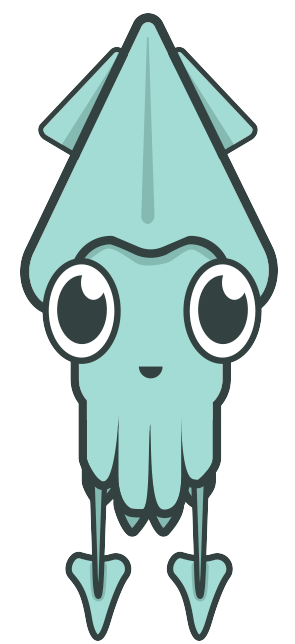
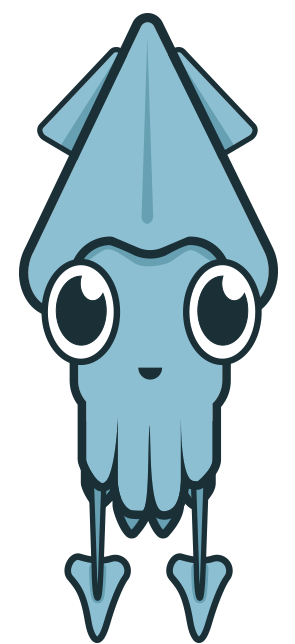
Redesigned home page and removed extra javascript

diff --git a/app/assets/stylesheets/application.scss b/app/assets/stylesheets/application.scss
@@ -1,36 +1,70 @@
 @import 'normalize';
 @import 'bootstrap';
 
+$dark-blue: #123035;
+$medium-blue: #55a1b1;
+$light-blue: #7fc0d1;
+
 /* ====================== Default Styles ===================== */
 
+body {
+	color: $dark-blue;
+}
+
 h1 {
-	font-family: 'Bree Serif', serif;
-	font-size: 3em;
-	color: #66ada3;
+	font-family: 'Serenity', serif;
+	font-size: 3.5em;
+	font-weight: 700;
+	color: $medium-blue;
 	margin-top: 100px;
+	text-transform: uppercase;
 }
 
 .blog-contact-content h1 {
-	font-family: 'Bree Serif', serif;
-	font-size: 3em;
-	color: #66ada3;
 	margin-top: 30px;
 }
 
+.blog-entries-content h1 {
+	margin-top: 50px;
+}
+
 h2 {
-	font-family: 'Raleway', sans-serif;
-	font-size: 2em;
+	font-family: 'Serenity', sans-serif;
+	color: $dark-blue;
+	text-align: center;
+	font-size: 3.5em;
+	font-weight: 600;
+	line-height: 1.2em;
+	margin-top: 0;
+}
+
+h3 {
+	font-family: 'Serenity', sans-serif;
+	font-size: 2.5em;
 	font-weight: 300;
-	line-height: 1.4em;
-	margin-top: 20px;
+	line-height: 1.2em;
+	margin: 25px 0;
+}
+
+h5 {
+	font-family: 'Serenity', sans-serif;
+	font-size: 18px;
+	font-weight: 300;
+	color: $dark-blue;
+	padding: 10% 25px;
+	text-align: center;
+	text-transform: uppercase;
 }
 
 p {
-font-family: 'Raleway', sans-serif;
-	font-size: 1.4em;
+	font-family: 'Serenity', sans-serif;
+	font-size: 1.7em;
 	font-weight: 200;
+}
+
+.blog-home-content p {
 	line-height: 1.4em;
-	margin-top: 20px;
+	padding-right: 200px;
 }
 
 .hide {
@@ -54,17 +88,17 @@ font-family: 'Raleway', sans-serif;
 }
 
 .navbar-default .navbar-nav  li  a {
-	color: #253331;
+	color: $dark-blue;
 }
 
 .navbar-default .navbar-nav  li  a:hover {
-	color: #66ada3;
+	color: $light-blue;
 }
 
 .navbar-default .navbar-nav > .active > a,
 .navbar-default .navbar-nav > .active > a:focus,
 .navbar-default .navbar-nav > .active > a:hover {
-	color: #66ada3;
+	color: $light-blue;
 	background-color: transparent;
 }
 
@@ -72,8 +106,8 @@ font-family: 'Raleway', sans-serif;
 	max-width: 1200px;
 	margin-left: auto;
 	margin-right: auto;
-	font-family: 'Bree Serif', serif;
-	font-size: 1.2em;
+	font-family: 'Serenity', serif;
+	font-size: 1.3em;
 }
 
 #blog-main-nav-wrapper .navbar {
@@ -93,10 +127,11 @@ font-family: 'Raleway', sans-serif;
 
 /* ====================== Body Styles ===================== */
 
-#blog-main-content-bg {
+.blog-main-content-bg {
 	width: 100%;
 	height: 450px;
 	background-image: url('blog-main-bg.jpg');
+	background-position: fixed;
 	background-color: #f8f8f8;
 	border-top: 1px solid #ebebeb;
 	border-bottom: 1px solid #ebebeb;
@@ -114,6 +149,7 @@ font-family: 'Raleway', sans-serif;
 }
 
 .blog-squid {
+	max-height: 550px;
 	animation-duration: 1.5s;
 	animation-name: bounce;
 	animation-timing-function: ease;
@@ -137,8 +173,33 @@ font-family: 'Raleway', sans-serif;
 
 /* ====================== Blog Entry Styles ===================== */
 
-.blog-entries-content{
+.blog-preview-wrapper {
+	margin-top: 50px;
 	text-align: center;
+}
+
+.blog-title-preview {
+	height: 80px;
+	margin-top:90px;
+	background-color: rgba(127, 192, 209, 0.7);
+}
+
+.blog-entry-preview {
+	background-color: #f6f6f6;
+	border-radius: 5px;
+	height: 265px;
+	padding: 0px;
+	box-shadow: 0 6px 5px 0 rgba(0, 0, 0, 0.1), 0 6px 16px 0 rgba(0, 0, 0, 0.13);
+}
+
+.blog-entry-preview a {
+	color: $dark-blue;
+}
+
+.blog-entry-preview-date {
+	text-align: center;
+    font-size: 16px;
+    margin-top: 5px;
 }
 
 /* ====================== Modal Styles ===================== */
@@ -166,8 +227,9 @@ font-family: 'Raleway', sans-serif;
 .modal-header {
 	border: none;
 	text-align: center;
-	padding-bottom: 0px;
-	background-color: #87d4cb;
+	padding-top: 10px;
+	padding-bottom: 10px;
+	background-color: $medium-blue;
 }
 
 .modal-title {
@@ -177,8 +239,8 @@ font-family: 'Raleway', sans-serif;
 
 .modal-body {
 	font-family: 'Raleway', sans-serif;
-	color: #5b8b86;
-	background-color: #87d4cb;
+	color: $dark-blue;
+	background-color: $light-blue;
 	padding: 0 25px 35px 25px;
 }
 
@@ -200,7 +262,7 @@ font-family: 'Raleway', sans-serif;
 }
 
 .blog-login-form input {
-	background-color: #70b9b0;
+	background-color: $medium-blue;
 	color: #fff;
 	border: medium none;
 	border-radius: 5px;
@@ -216,7 +278,7 @@ font-family: 'Raleway', sans-serif;
 	height: 50px;
 	font-family: 'Raleway', sans-serif;
 	color: #fff;
-	background-color: #87d4cb;
+	background-color: $light-blue;
 	border: none;
 	border-radius: 5px;
 	margin: 10px 0 10px 70px;
@@ -224,7 +286,7 @@ font-family: 'Raleway', sans-serif;
 }
 
 .blog-forgot-password  a {
-	color: #5b8b86;
+	color: $medium-blue;
 	font-family: 'Raleway', sans-serif;
 	float: right;
 	width: 45%;
@@ -245,7 +307,7 @@ font-family: 'Raleway', sans-serif;
 }
 
 .contact-form-wrapper {
-	margin-top: 25px;
+	margin-top: 100px;
 	font-family: 'Raleway', sans-serif;
 }
 
@@ -257,13 +319,13 @@ font-family: 'Raleway', sans-serif;
 .contact-form-wrapper input {
 	height: 45px;
 	border: none;
-	background-color: #a9c8c5;
+	background-color: $light-blue;
 	color: #fff;
 }
 
 .contact-form-wrapper textarea {
 	border: none;
-	background-color: #a9c8c5;
+	background-color: $light-blue;
 	color: #fff;
 	resize: none;
 }
@@ -277,7 +339,7 @@ font-family: 'Raleway', sans-serif;
 	height: 50px;
 	font-family: 'Raleway', sans-serif;
 	color: #fff;
-	background-color: #87d4cb;
+	background-color: $medium-blue;
 	border: none;
 	border-radius: 5px;
 	width: 50%;

diff --git a/app/assets/javascripts/main.js b/app/assets/javascripts/main.js
@@ -1,4 +1,4 @@
-$(document).on('page:change', function() { //Added page:change to prevent breakage of anchor links when coming back to home page
+/*$(document).on('page:change', function() { //Added page:change to prevent breakage of anchor links when coming back to home page
 
         $('.blog-about-content').hide();
         $('.blog-contact-content').hide();
@@ -11,14 +11,6 @@ $(document).on('page:change', function() { //Added page:change to prevent breaka
                 $('.blog-home-content').delay(500).fadeIn(500);
                 $('.blog-squid-container').delay(500).fadeIn(500);
                 $('.blog-about-content').fadeOut(500);
-                $('.blog-contact-content').fadeOut(500);
-                $('.blog-entries-content').fadeOut(500);
-        });
-
-        $('#blog-about').click(function(){
-                $('.blog-about-content').delay(500).fadeIn(500);
-                $('.blog-squid-container').delay(500).fadeIn(500);
-                $('.blog-home-content').fadeOut(500);
                 $('.blog-contact-content').fadeOut(500);
                 $('.blog-entries-content').fadeOut(500);
         });
@@ -39,4 +31,4 @@ $(document).on('page:change', function() { //Added page:change to prevent breaka
                 $('.blog-squid-container').fadeOut(500);
         });
 
-});
+}); */
